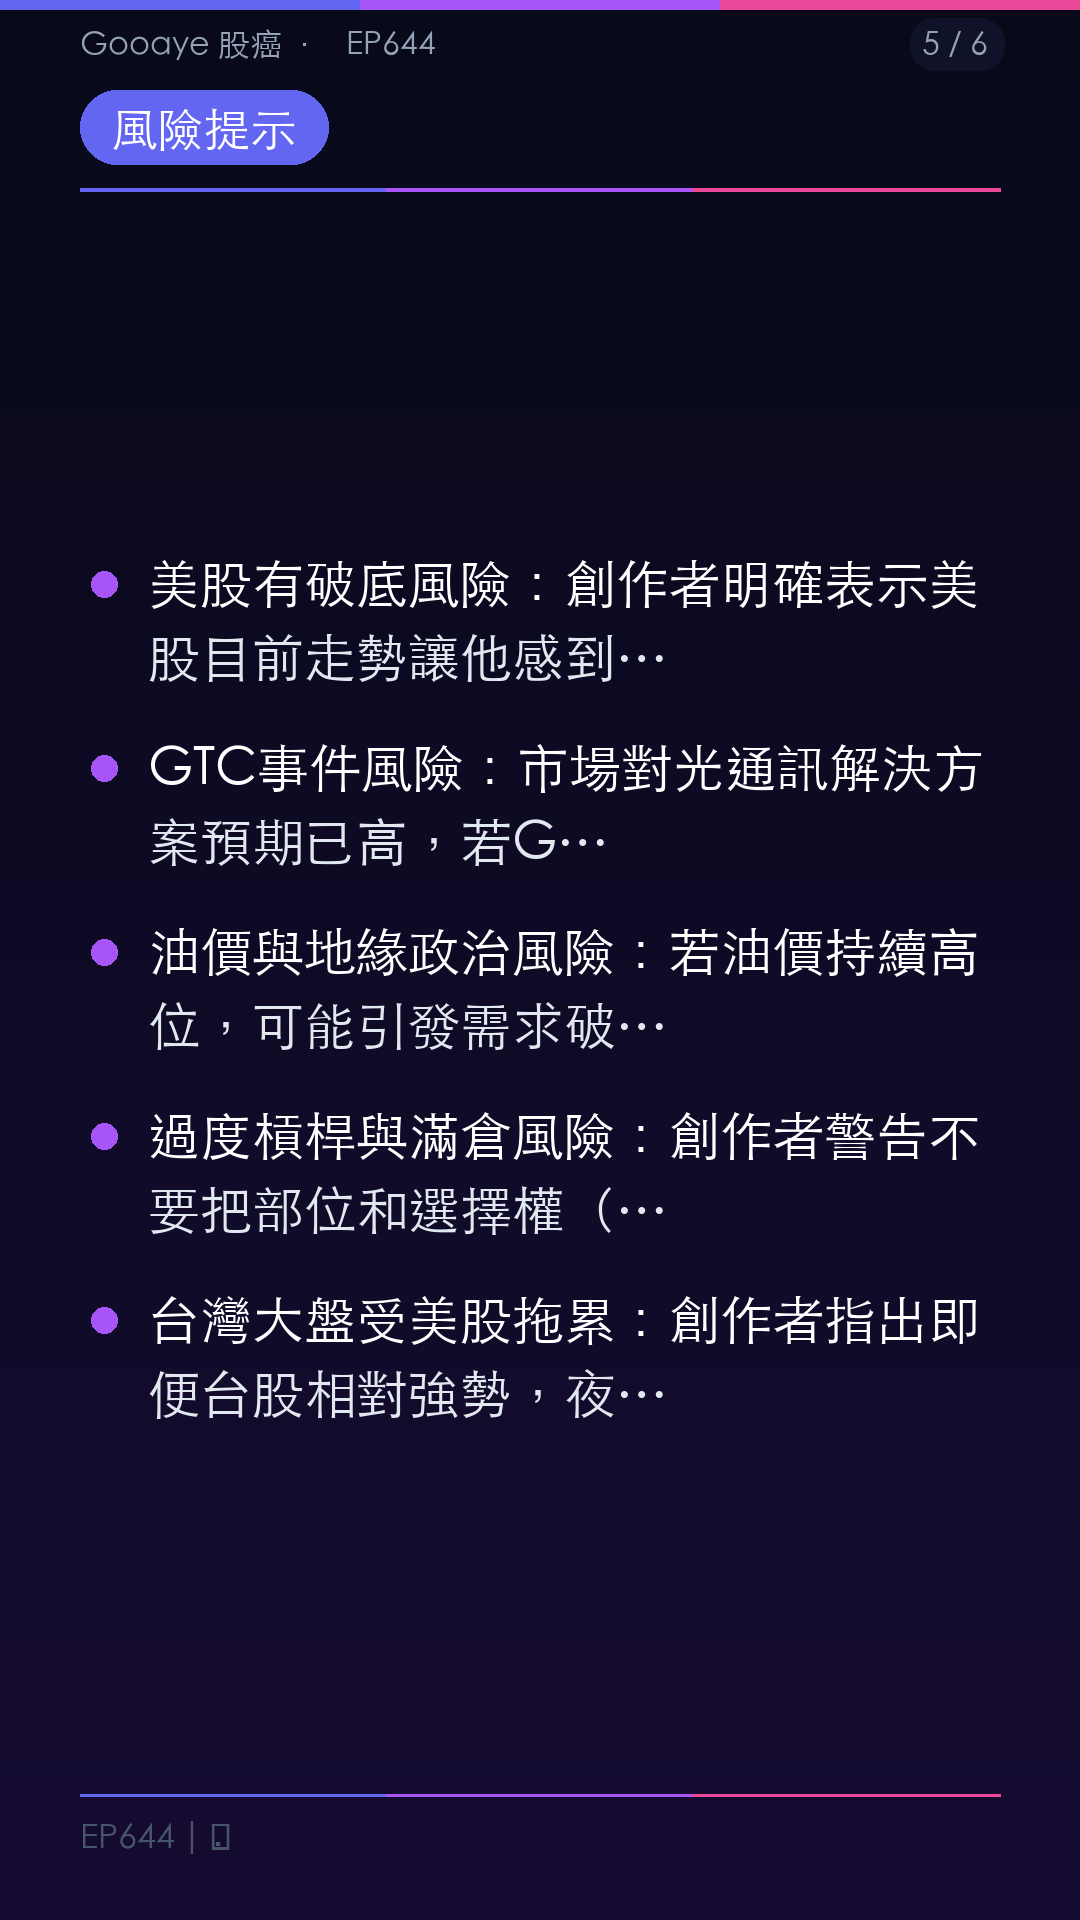
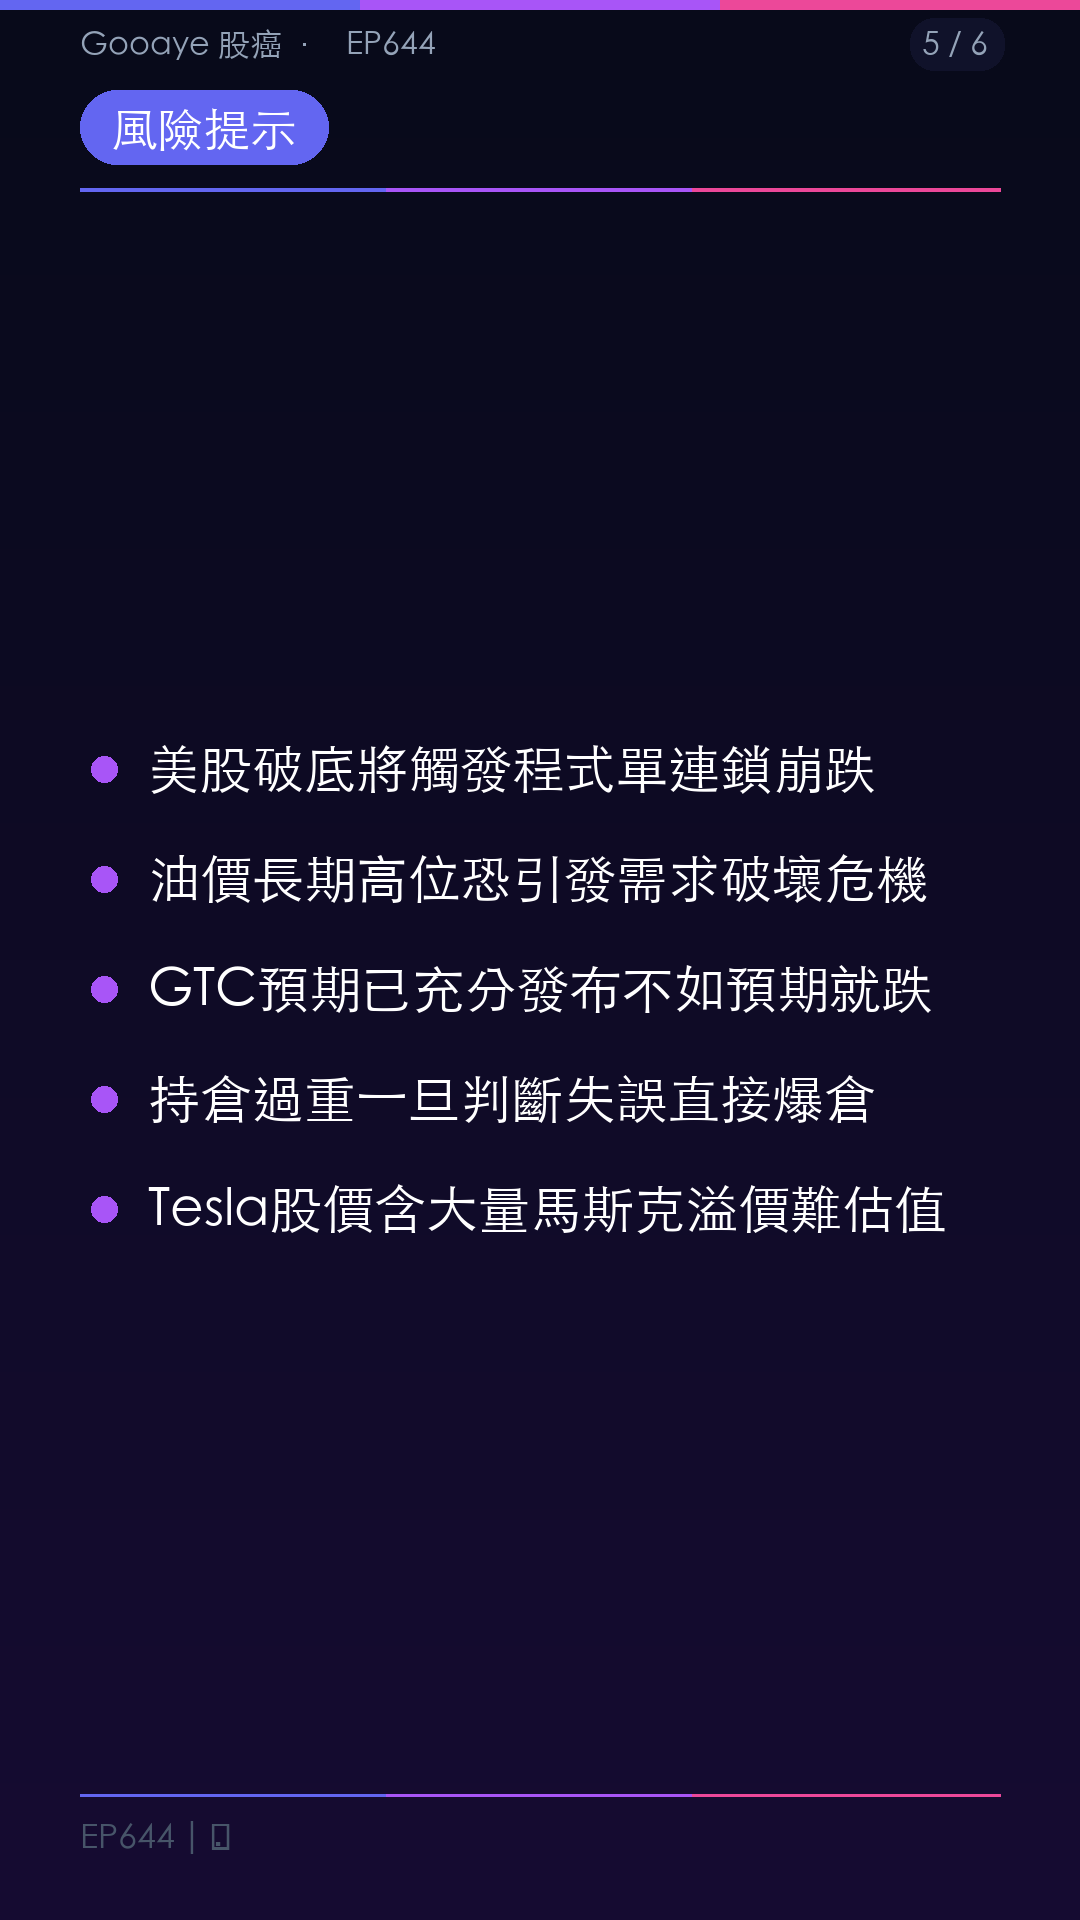
chore: deploy static site — 2026-03-14 21:35

Changed region(s): [[0.0611, 0.2812, 0.9167, 0.75], [0.0917, 0.2812, 0.1222, 0.3125]]

diff --git a/docs/summaries/JPDxWnDUtAw.md b/docs/summaries/JPDxWnDUtAw.md
@@ -5,8 +5,7 @@ channel_id: UC23rnlQU_qE3cec9x709peA
 channel_name: Gooaye 股癌
 published: 2026-03-14T08:26:00+00:00
 processed: 2026-03-14
-hashtags: #記憶體 #AI供應鏈 #美股風險 #旺宏 #光通訊 #Gooaye股癌
-industries: 台股, 美股, AI
+hashtags: #美股風險 #記憶體 #NVIDIA #主動投資 #選股策略 #Gooaye股癌
 ---
 
 # EP644 | 🦇
@@ -17,15 +16,15 @@ industries: 台股, 美股, AI
 
 
 
-- **創作者認為**，在震盪盤中頻繁追高殺低非常危險——等待一個月後可能發現指數停在同一位置，但資金已虧損兩成左右，因此應減少密集看盤與頻繁操作。
+- **創作者認為「戰鬥週」（震盪行情）中頻繁操作非常危險**：節目中提到，在盤整期間密集追高殺低，最終可能發現指數原地踏步，但自己的資金卻已虧損兩成，強調不應受短期現象扭轉自己的判斷，要對自己的決策保持信心。
 
-- **創作者認為**，投資判斷需要建立在長期的經驗累積與肌肉記憶上，短期看來錯誤的決定，拉長時間軸來看不一定是錯的，重點是要對自己的邏輯有自信、不輕易被當下現象扭轉判斷。
+- **創作者認為美股目前處於相對危險的位置**：節目中提到美股有「快BBQ的味道」，若關鍵底部破底後未能站回，將會加速下跌並連帶拖累台股；同時指出若油價持續高位，將影響利率與央行決策，進而衝擊市場估值，形成更長期的不利局面。
 
-- **創作者認為**，不能把軟體股或硬體股「一包打盡」地評論，不同公司在AI浪潮下的受益程度截然不同，投資分析必須回歸個別公司的基本面與論述，而非用大標籤做判斷。
+- **創作者認為不應將同一類股一概而論**：節目中以軟體股為例，強調同樣被稱為「軟體股」的公司，有些已因AI而變得更強大（如Palantir、Cloudflare），有些則真的走弱（如Adobe、Salesforce/CRM），投資人必須逐一辨別，而非以「軟體股大毀滅」一言以蔽之。
 
-- **創作者認為**，主動投資的本質就是相信市場短期會犯錯、出現錯誤定價，投資人應善用這些錯誤定價的時間點。長期來看市場趨向正確，但短期極容易犯錯，因此「市場是對的還是錯的」這個討論本身意義不大，應聚焦在個別公司的論述。
+- **創作者認為市場短期常常犯錯，這正是主動投資的機會所在**：節目中提到，市場長期會正確定價，但短期錯誤定價非常頻繁，主動投資者就是在識別並利用這些錯誤定價的時間點；並舉凱基對旺宏上調目標價為例，說明這本質上就是在告訴市場「目前定價是錯的」。
 
-- **創作者認為**，在市場動盪期間，維持家庭生活的陪伴與心態穩定，跟做好風控同樣重要。他以自身為例，說明自己在「戰鬥週」中仍能陪孩子玩遊戲，視之為個人成長的重要進步。
+- **創作者認為在重大事件（如GTC）前後應先做部位調節**：節目中提到，市場對GTC可能展示的光通訊解決方案已多有預期，若屆時表現不如預期，股價可能快速下跌，因此傾向在事件前減輕部位以降低風險。
 
 
 
@@ -36,31 +35,31 @@ industries: 台股, 美股, AI
 ## 提及標的
 
 
-**台股相關：**
+**台灣股票**
 
 
 
-- 旺宏（NOR Flash／MLC NAND記憶體）
+- 旺宏（Norflash / NOR Flash概念股）
 
-- 廣達（舉例用）
+- 台積電
 
-- 台積電（舉例用）
+- 聯電
 
-- 聯電（舉例用）
+- 廣達
 
-- 統一（聽眾提問中提及）
+- 緯創（節目中提到「板廠」相關）
 
 
 
-**美股相關：**
+**美股**
 
 
 
 - 美光（Micron）
 
-- Tesla（TSLA）
+- NVIDIA（老黃 / GTC相關）
 
-- Microsoft（MSFT）
+- Tesla（Robotaxi、訂單、估值討論）
 
 - Palantir
 
@@ -70,16 +69,13 @@ industries: 台股, 美股, AI
 
 - Adobe
 
-- Salesforce（CRM）
+- Salesforce / CRM
+
+- Microsoft
 
 - Uber
 
-
-
-
-**日股相關：**
-
-
+- 拼多多
 
 - Teradyne
 
@@ -89,23 +85,23 @@ industries: 台股, 美股, AI
 
 
 
-**產業／市場：**
+**產業 / 題材**
 
 
 
-- 記憶體產業（EMMC、MLC NAND、NOR Flash）
+- 記憶體（EMMC、MLC NAND、NOR Flash）
 
-- 光通訊相關供應鏈
+- 光通訊
 
-- AI伺服器／資料中心
+- AI伺服器
 
-- 後段封裝測試廠
+- 消費性市場（筆電、手機、Apple折疊機）
 
-- 消費性電子（筆電、手機）
+- 軟體股整體
 
-- 軟體股（SaaS）
+- Robotaxi / 人形機器人（Tesla相關）
 
-- 美股、台股
+- 衛星通訊（節目中提及衛星訂單）
 
 
 
@@ -117,12 +113,13 @@ industries: 台股, 美股, AI
 
 
 
-- 凱基（KGI）對旺宏出具目標價 **300元** 報告，為本週旺宏漲停的重要觸媒
+- 凱基（KGI）發布旺宏目標價報告，目標價 **300元**
 
-- 市場傳言美光下季毛利率將達 **80幾%**（創作者表示「等下週財報驗證」）
+- 美光（Micron）市場預期毛利率將開出 **80幾%**
 
-- 創作者起始投資本金約**幾十萬**甚至不到（回覆聽眾提問）
+- 創作者提及某標的股價在「短短一段時間就翻了一倍」（指衛星相關個股，未具名）
 
+- 創作者提及個人投資本金從「幾十萬」起步
 
 
 
@@ -134,15 +131,15 @@ industries: 台股, 美股, AI
 
 
 
-- **旺宏**：受惠於大廠產能轉向先進製程，MLC NAND與NOR Flash市場幾乎由旺宏獨佔，報價持續走升，創作者認為基本面具支撐。
+- **旺宏**：節目中提到EMMC與NOR Flash報價持續上漲，且大廠產能移往先進製程後旺宏幾乎成為MLC NAND / NOR Flash的主要供應者，具備明顯漲價空間，認為是記憶體這波行情的受惠核心。
 
-- **光通訊相關供應鏈**：GTC即將登場，光通訊解決方案被市場高度預期，相關類股（台股）創作者認為仍是目前美股以外相對清晰的題材方向。
+- **美股修正後的承接機會**：創作者認為若美股真的出現破底，應事先規劃好要佈局的標的，保留流動性以便低接；並提到過去美股表現落後時，往往是修正後最具反彈潛力的市場。
 
-- **Teradyne、Advantest、Keysight（日股）**：創作者表示這幾檔近期走勢相對強勢，在供應鏈中具有競爭與互補關係，已列入觀察。
+- **Teradyne、Advantest、Keysight**：節目中提到這三檔近期相對強勢，已走出獨立行情，值得持續關注。
 
-- **Tesla**：創作者從供應鏈訂單角度（韓系大廠上修Tesla下單數量）推斷馬斯克仍在「蹲低準備跳起來」，對後市保持正面看法，惟承認Tesla估值難以用傳統方式評價。
+- **Tesla**：創作者表示從供應鏈角度觀察，馬斯克近期大幅追加訂單，推測其「蹲低準備跳起」，後續可能有驚喜；個人策略為「跌下來再撿」。
 
-- **美股修正後的佈局機會**：創作者認為若美股真的破底，應預先規劃要撿哪些標的，並建議現在先清理投資組合中表現落後的標的、保留流動性。
+- **Apple**：創作者認為Apple今年的低價策略有助AI滲透與教育市場，相較其他手機品牌應有較好表現。
 
 
 
@@ -154,15 +151,17 @@ industries: 台股, 美股, AI
 
 
 
-- **美股有破底風險**：創作者明確表示美股目前走勢讓他感到「不太樂觀」，若關鍵支撐破底後未能快速站回，可能引發程式單連鎖反應，加速下跌。
+- **美股破底加速風險**：節目中提到若美股關鍵底部守不住且無法迅速站回，將觸發程式單與槓桿的連鎖反應，導致跌勢加速；若台股也無法倖免，將一起被帶下去。
 
-- **GTC事件風險**：市場對光通訊解決方案預期已高，若GTC實際公布內容不如預期，相關股票可能快速下跌；創作者表示會在事件前先做部位調節。
+- **油價高位持續的風險**：創作者提到若油價遲遲無法降溫，將影響通膨、利率預期及市場估值，最壞情況類似烏俄衝突期間的「需求破壞」。
 
-- **油價與地緣政治風險**：若油價持續高位，可能引發需求破壞、影響利率預期，進而拖累市場估值，這是創作者認為最壞的情境之一。
+- **GTC事件風險**：創作者指出市場對NVIDIA GTC發布光通訊方案的預期已相當充分，若發布內容不如預期或盤面偏軟，股價可能快速下跌。
 
-- **過度槓桿與滿倉風險**：創作者警告不要把部位和選擇權（option）全部幹好幹滿，一次戰役的失敗可能導致後續無力參與。
+- **持倉過重的風險**：節目中強調不應讓自己在關鍵事件前抱著大量部位硬扛，也不應把選擇權買滿，一旦判斷失誤將直接爆倉，即便方向最終正確也已無本可用。
 
-- **台灣大盤受美股拖累**：創作者指出即便台股相對強勢，夜盤仍會受國際盤影響，若美股趨勢真正反轉，台股也難以獨善其身。
+- **頻繁操作震盪盤的風險**：創作者提到在橫盤震盪期間頻繁追高殺低，極可能「等了一個月，盤停在原位，錢卻少了兩成」。
+
+- **Tesla估值風險**：節目中明確指出Tesla股價內含大量「Elon trust premium（馬斯克溢價）」，從基本面幾乎無法推算合理價，即便基本面良好，股價仍可能再跌20~30%。
 
 
 
@@ -174,14 +173,14 @@ industries: 台股, 美股, AI
 
 
 
-- **美光財報（下週）**：觀察毛利率是否真的開到80幾%，此數字若成真，創作者認為將再次帶動記憶體相關族群。
+- **觀察美股是否破底**：創作者建議密切留意美股關鍵支撐是否失守，並提前規劃好破底後的承接清單，同時確保手上保有足夠流動性。
 
-- **GTC大會**：觀察NVIDIA老黃是否端出光通訊解決方案及LPU相關產品，並留意市場在事件前後的反應與預期落差。
+- **觀察美光（Micron）下週財報**：節目中提到市場預期美光毛利率將達80幾%，建議等下週財報揭曉後確認是否屬實，結果將對整個記憶體族群有指引意義。
 
-- **美股是否破底**：創作者建議持續追蹤美股關鍵底部能否守住，若破底則預先規劃好採購清單，手上保留足夠流動性。
+- **觀察NVIDIA GTC發布內容**：創作者建議在GTC前做部位調節，並於發布後依實際內容與市場反應再決定後續動作。
 
-- **各大科技廠CAPEX是否持續**：創作者認為只要巨頭資本支出未見明顯下滑，整體AI供應鏈的投資邏輯就仍然成立。
+- **觀察Tesla訂單後續進展**：創作者建議從供應鏈角度持續追蹤馬斯克追加訂單的後續落地情況，並等待股價跌至適當位置再考慮介入。
 
-- **台股資金輪動方向**：觀察強勢股做頭後資金流向哪個族群，創作者認為台股的輪動訊號相對美股清晰，容易辨識新的資金方向。
+- **篩選軟體股中的「強者」**：創作者建議投資人不應用「軟體股」整包看待，應逐一辨別哪些公司在AI加持下變強（如Palantir、Cloudflare），哪些正在被取代，分別應對。
 
-- **Tesla供應鏈訂單動態**：創作者建議從供應鏈端（而非社群媒體負面報導）觀察Tesla實際下單狀況，以此判斷後續是否有驚喜。
+- **執行投資組合「灌溉鮮花、砍掉雜草」**：創作者建議參考Peter Lynch的做法，將組合中持續走弱的部位減碼騰出空間，以便在後續機會出現時有資金可以加碼強勢標的。
